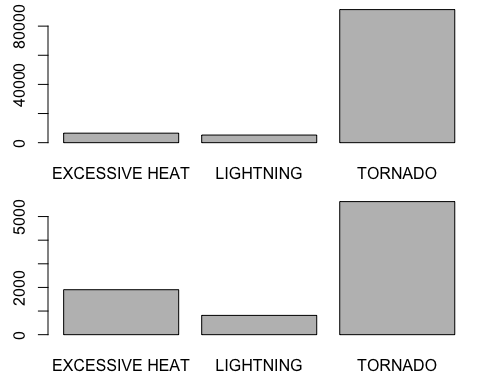
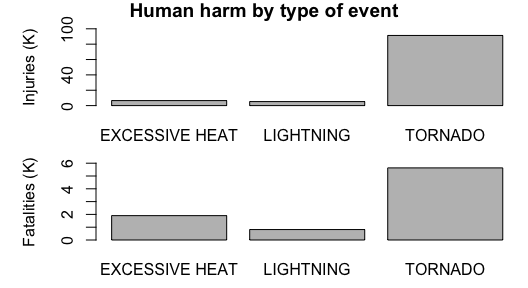
Updated Rmd, md and plot files.

diff --git a/NOAA_Storms_analysis.md b/NOAA_Storms_analysis.md
@@ -1,7 +1,7 @@
 Most damaging climate events across the USA
 ================
 Ander Elkoroaristizabal
-9/1/2020
+9/2/2020
 
 ## Abstract
 
@@ -15,6 +15,24 @@ In this analysis we answer the following two questions:
 We will consider the impact of each event type additively, i.e., the
 impact of each event type will be the sum of all the events inside this
 type We leave the option of considering the average damage for later.
+
+## Synopsis
+
+The analysis can be summarized as follows:
+
+1.  We load the data.
+2.  We start with the first question. We see that the data needs no
+    preprocessing.
+3.  We do two barplots, one of injured people and another one of
+    fatalies in order to answer the question.
+4.  We start with the second question. We see that the data needs
+    preprocessing. We process the exponents data, and modify accordingly
+    the damage columns.
+5.  We do two barplots of the property and crop damage by type of event
+    and answer the question.
+6.  We do another barplot, in which the data is the addition of property
+    and crop damage, in order to give more insight about the next events
+    with worst economic consequences.
 
 ## Data processing
 
@@ -85,16 +103,17 @@ library(dplyr)
 hdamage_by_type = group_by(Storm_data, EVTYPE) %>% 
   summarise(INJURIES = sum(INJURIES), FATALITIES = sum(FATALITIES))
 
-worst_events = intersect(hdamage_by_type[order(-hdamage_by_type$INJURIES),][1:5,],
+most_harmful_events = intersect(hdamage_by_type[order(-hdamage_by_type$INJURIES),][1:5,],
                    hdamage_by_type[order(-hdamage_by_type$FATALITIES),][1:5,])
 
-par(mfrow = c(2,1), mai = c(0.5, 0.5, 0.1, 0.1))
-barplot(INJURIES~EVTYPE, 
-        worst_events,
-        xlab = "")
-barplot(FATALITIES~EVTYPE, 
-        worst_events,
-        xlab = "")
+par(mfrow = c(2,1), mai = c(0.5, 1, 0.1, 0.1), oma = c(0,0,1,0))
+barplot(INJURIES/1000~EVTYPE, 
+        most_harmful_events,
+        xlab = "", ylab = "Injuries (K)", ylim = c(0,100))
+title("Human harm by type of event", outer = TRUE)
+barplot(FATALITIES/1000~EVTYPE, 
+        most_harmful_events,
+        xlab = "", ylab = "Fatalities (K)", ylim =c(0,6))
 ```
 
 <img src="NOAA_Storms_analysis_files/figure-gfm/Harmful-1.png" style="display: block; margin: auto;" />
@@ -102,9 +121,13 @@ barplot(FATALITIES~EVTYPE,
 The answer to question one is clear: Tornados are by far the most
 harmful event in the US.
 
-### 2\. Event types with greatest economic consequences
+### 2\. Event type with worst economic consequences
 
-What do the exponents mean? E.g.:
+In order to answer this question we need to focus on the columns PROPDMG
+and CROPDMG, related to property and crops damage, and to their
+exponents, in the PROPDMGEXP and CROPDMGEXP columns. The first thing we
+notice is that the meaning of some values of these exponent columns is
+not clear. The values are of PROPDMGEXP, for example, are the following:
 
 ``` r
 table(Storm_data$PROPDMGEXP)
@@ -115,3 +138,99 @@ table(Storm_data$PROPDMGEXP)
     ## 465934      1      8      5    216     25     13      4      4     28      4 
     ##      7      8      B      h      H      K      m      M 
     ##      5      1     40      1      6 424665      7  11330
+
+Most values are understandable, but the meaning of the - and + sign is
+not clear, and the question mark should be treated as NA’s.
+Nevertheless, since the number of - and + marks is small, we will also
+consider them to be NA’s. Furthermore, we will treat the empty values as
+zeros.
+
+Now we will format the exponent columns using the `translate_exponent()`
+function, and use them to give the same scale to the values in PROPDMG
+and CROPDMG.
+
+``` r
+translate_exponent = function(e){
+  if (e==""){ 
+    return(0) }
+  else if (e %in% c("-","+","?")){
+    return(NA)}
+  else if (suppressWarnings(!is.na(as.numeric(e)))){ # Check whether it is a number
+    return(as.numeric(e))}
+  else if (e == "B"){ 
+    return(9) } # American billions!
+  else if (e %in% c("m","M")){
+    return(6) }
+  else if (e %in% c("k","K")){
+    return(3) }
+  else if (e %in% c("h", "H")){
+    return(2)}
+}
+
+Storm_data$PROPDMGEXP = unlist(sapply(Storm_data$PROPDMGEXP, translate_exponent))
+Storm_data$CROPDMGEXP = unlist(sapply(Storm_data$CROPDMGEXP, translate_exponent))
+Storm_data = transform(Storm_data, PROPDMG = PROPDMG * 10^(PROPDMGEXP),
+                      CROPDMG = CROPDMG * 10^(CROPDMGEXP))
+```
+
+Now that the values of CROPDMG and PROPDMG are coherent, we proceed as
+with question 1 and compare the crop and property damages:
+
+``` r
+edamage_by_type = group_by(Storm_data, EVTYPE) %>% 
+  summarise(PROPDMG = sum(PROPDMG), CROPDMG = sum(CROPDMG))
+
+worst_economic_events = intersect(edamage_by_type[order(-edamage_by_type$PROPDMG),][1:10,],
+                   edamage_by_type[order(-edamage_by_type$CROPDMG),][1:10,])
+
+par(mfrow = c(2,1), mai = c(0.5, 1, 0.25, 0.25), oma = c(0,0,1,0))
+barplot(PROPDMG/10^9~EVTYPE, 
+        worst_economic_events,
+        xlab = "", ylab = "Property damage (B$)")
+title("Economic damage by event and damage type", outer = TRUE)
+barplot(CROPDMG/10^9~EVTYPE, 
+        worst_economic_events,
+        xlab = "", ylab = "Crop damage (B$)")
+```
+
+<img src="NOAA_Storms_analysis_files/figure-gfm/Damage_plots-1.png" style="display: block; margin: auto;" />
+
+From the plots above we can see that the floods are the most damaging
+events in the US, both for property and crop. Nevertheless, notice that
+the maximum economic impact due to property damage is much bigger than
+the maximum economic impact due to crop damage. Hence it is sensible to
+consider it when comparing, and see which event is the most harmful when
+adding the property and crop damage:
+
+``` r
+library(ggplot2)
+Pdamage_by_type = group_by(Storm_data, EVTYPE) %>% 
+  summarise(Damage = sum(PROPDMG))
+Pdamage_by_type["DMG_type"] = "Property"
+Cdamage_by_type = group_by(Storm_data, EVTYPE) %>% 
+  summarise(Damage = sum(CROPDMG))
+Cdamage_by_type["DMG_type"] = "Crop"
+
+# We now take top 3 types of each
+Top_Pdamage_types = Pdamage_by_type[order(-Pdamage_by_type$Damage),]$EVTYPE[1:3]
+Top_Cdamage_types = Cdamage_by_type[order(-Cdamage_by_type$Damage),]$EVTYPE[1:3]
+
+Edamage_by_type = data.frame(row.names = c("EVTYPE","Damage","DMG_type"))
+
+# And bind the data pairs of the events above
+for (type in unique(c(Top_Pdamage_types,Top_Cdamage_types))){
+  Edamage_by_type = rbind(Edamage_by_type, Pdamage_by_type[Pdamage_by_type$EVTYPE == type,])
+  Edamage_by_type = rbind(Edamage_by_type, Cdamage_by_type[Cdamage_by_type$EVTYPE == type,])
+}
+
+ggplot(Edamage_by_type, aes(fill=DMG_type, y=Damage/10^9, x=reorder(EVTYPE,-Damage))) + 
+    geom_bar(position="stack", stat="identity") + 
+    ggtitle("Events with worst economic consequences") + 
+    xlab("") + ylab("Economic damage (B$)") + theme(plot.title = element_text(hjust = 0.5))
+```
+
+<img src="NOAA_Storms_analysis_files/figure-gfm/Sum_damages-1.png" style="display: block; margin: auto;" />
+
+We can see in the plot above that as we already knew, floods are the
+events that do most economic damage. In addition, we now see (without
+any doubt) which are the next 4 most damaging events.
